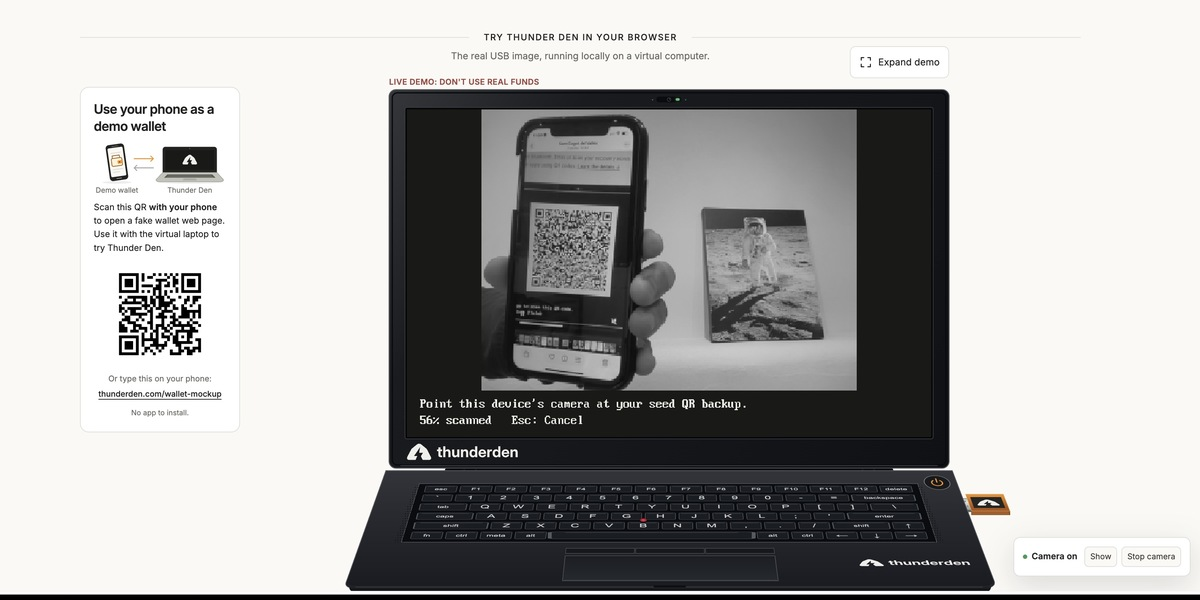
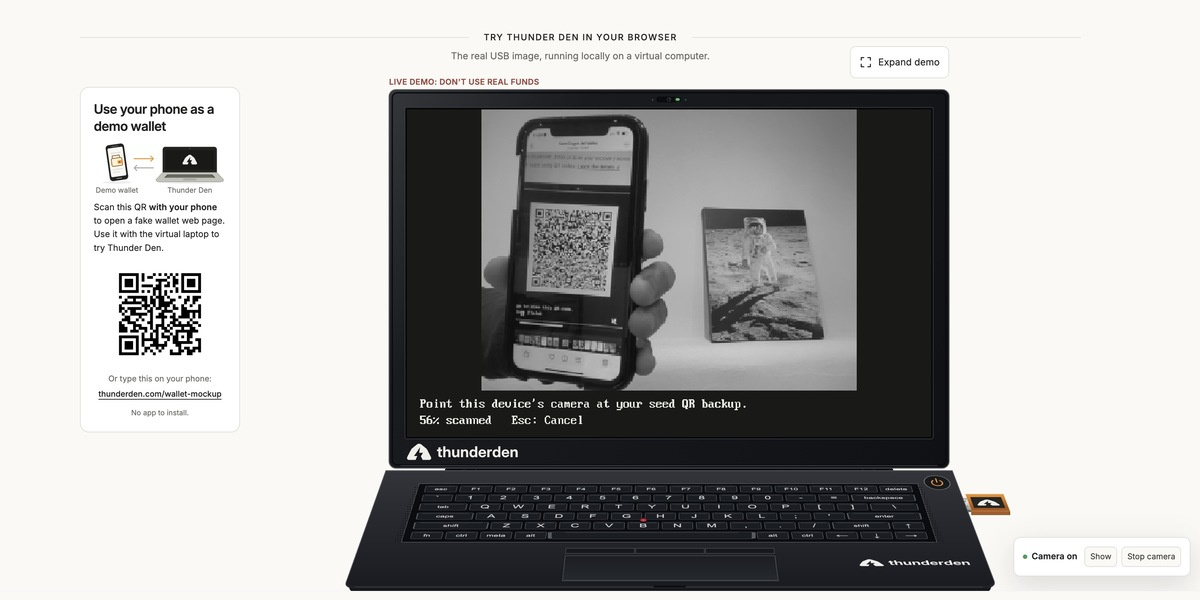
Remove the captured bottom border from the shared preview

Changed region(s): [[0.0, 0.99, 1.0, 1.0]]

diff --git a/web/site/index.html b/web/site/index.html
@@ -11,7 +11,7 @@
   <meta property="og:url" content="https://thunderden.com/">
   <meta property="og:title" content="Thunder Den: turn an old laptop into a Bitcoin signer">
   <meta property="og:description" content="Boot from USB. Powered by Bitcoin Core, with no internet or disk access. Review and sign transactions from your wallet app using QR codes.">
-  <meta property="og:image" content="https://thunderden.com/site/social-preview.jpg">
+  <meta property="og:image" content="https://thunderden.com/site/social-preview.jpg?v=2">
   <meta property="og:image:type" content="image/jpeg">
   <meta property="og:image:width" content="1200">
   <meta property="og:image:height" content="600">
@@ -19,7 +19,7 @@
   <meta name="twitter:card" content="summary_large_image">
   <meta name="twitter:title" content="Thunder Den: turn an old laptop into a Bitcoin signer">
   <meta name="twitter:description" content="Boot from USB. Powered by Bitcoin Core, with no internet or disk access. Review and sign transactions from your wallet app using QR codes.">
-  <meta name="twitter:image" content="https://thunderden.com/site/social-preview.jpg">
+  <meta name="twitter:image" content="https://thunderden.com/site/social-preview.jpg?v=2">
   <meta name="twitter:image:alt" content="Thunder Den browser demo scanning a public test QR code, shown on a complete virtual laptop.">
   <link rel="icon" href="./brand/favicon.svg" type="image/svg+xml">
   <link rel="preload" href="./fonts/InterVariable.woff2" as="font" type="font/woff2" crossorigin>
@@ -43,7 +43,7 @@
     <section id="phone-demo" class="phone-demo-message" aria-labelledby="phone-demo-title">
       <h2 id="phone-demo-title">Try Thunder Den on a computer</h2>
       <p>Open thunderden.com on a laptop or desktop to try it in your browser. No USB drive needed.</p>
-      <img src="./site/social-preview.jpg" width="1200" height="600" loading="lazy" decoding="async" alt="Static preview of the Thunder Den browser demo on a computer.">
+      <img src="./site/social-preview.jpg?v=2" width="1200" height="600" loading="lazy" decoding="async" alt="Static preview of the Thunder Den browser demo on a computer.">
     </section>
     <section class="demo-experience" aria-labelledby="demo-title">
       <header class="demo-heading"><h2 id="demo-title"><span>Try Thunder Den in your browser</span></h2><p>The real USB image, running locally on a virtual computer.</p></header>

diff --git a/tests/server.test.js b/tests/server.test.js
@@ -54,7 +54,7 @@ test('serve the page with shared-memory headers but not files outside web/', asy
       .map(([, name, content]) => [name, content]));
     const title = 'Thunder Den: turn an old laptop into a Bitcoin signer';
     const description = 'Boot from USB. Powered by Bitcoin Core, with no internet or disk access. Review and sign transactions from your wallet app using QR codes.';
-    const image = 'https://thunderden.com/site/social-preview.jpg';
+    const image = 'https://thunderden.com/site/social-preview.jpg?v=2';
     for (const [name, value] of Object.entries({
       'og:type': 'website', 'og:site_name': 'Thunder Den', 'og:url': 'https://thunderden.com/',
       'og:title': title, 'og:description': description, 'og:image': image,
@@ -67,7 +67,8 @@ test('serve the page with shared-memory headers but not files outside web/', asy
     assert.equal(metadata['twitter:player'], undefined);
     assert.equal(html.match(/<title>([^<]*)<\/title>/)?.[1], title);
     assert.equal(metadata.description, description);
-    const preview = await fetch(base + new URL(image).pathname);
+    const imageUrl = new URL(image);
+    const preview = await fetch(base + imageUrl.pathname + imageUrl.search);
     assert.equal(preview.status, 200);
     assert.equal(preview.headers.get('content-type'), 'image/jpeg');
     const jpeg = new Uint8Array(await preview.arrayBuffer());

diff --git a/tests/browser-site.py b/tests/browser-site.py
@@ -108,12 +108,20 @@ with sync_playwright() as pw:
                 assert page.locator('#phone-demo > p').inner_text()=='Open thunderden.com on a laptop or desktop to try it in your browser. No USB drive needed.'
                 preview=page.locator('#phone-demo img')
                 assert preview.is_visible()
-                assert preview.get_attribute('src')=='./site/social-preview.jpg'
+                assert preview.get_attribute('src')=='./site/social-preview.jpg?v=2'
                 assert preview.get_attribute('loading')=='lazy'
                 page.wait_for_function('''() => {
                     const image=document.querySelector('#phone-demo img');
                     return image.complete && image.naturalWidth===1200 && image.naturalHeight===600;
                 }''')
+                assert preview.evaluate('''image=>{
+                    const canvas=document.createElement('canvas');
+                    canvas.width=1;canvas.height=1;
+                    const context=canvas.getContext('2d');
+                    context.drawImage(image,0,image.naturalHeight-1,image.naturalWidth,1,0,0,1,1);
+                    const pixel=context.getImageData(0,0,1,1).data;
+                    return Math.min(pixel[0],pixel[1],pixel[2])>230;
+                }'''),'The preview must not retain a dark capture border at the bottom'
                 bounds=preview.bounding_box()
                 assert abs(bounds['width']/bounds['height']-2)<.01,bounds
                 assert bounds['width']<=page.locator('#phone-demo').bounding_box()['width'],bounds
